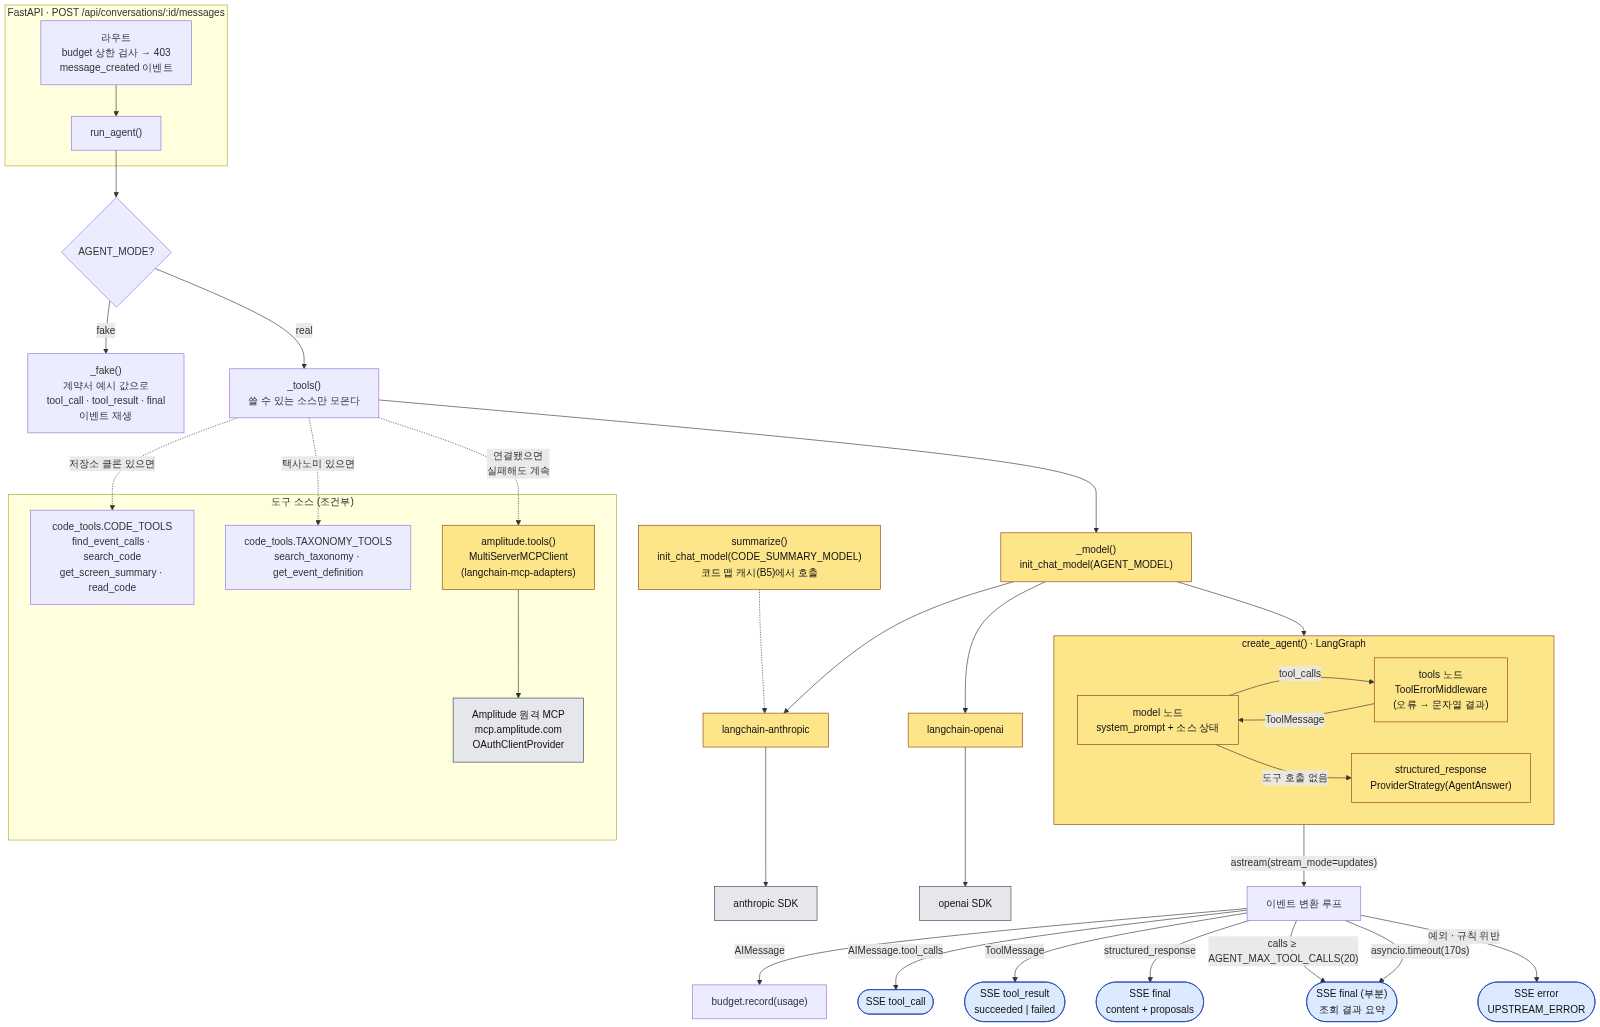
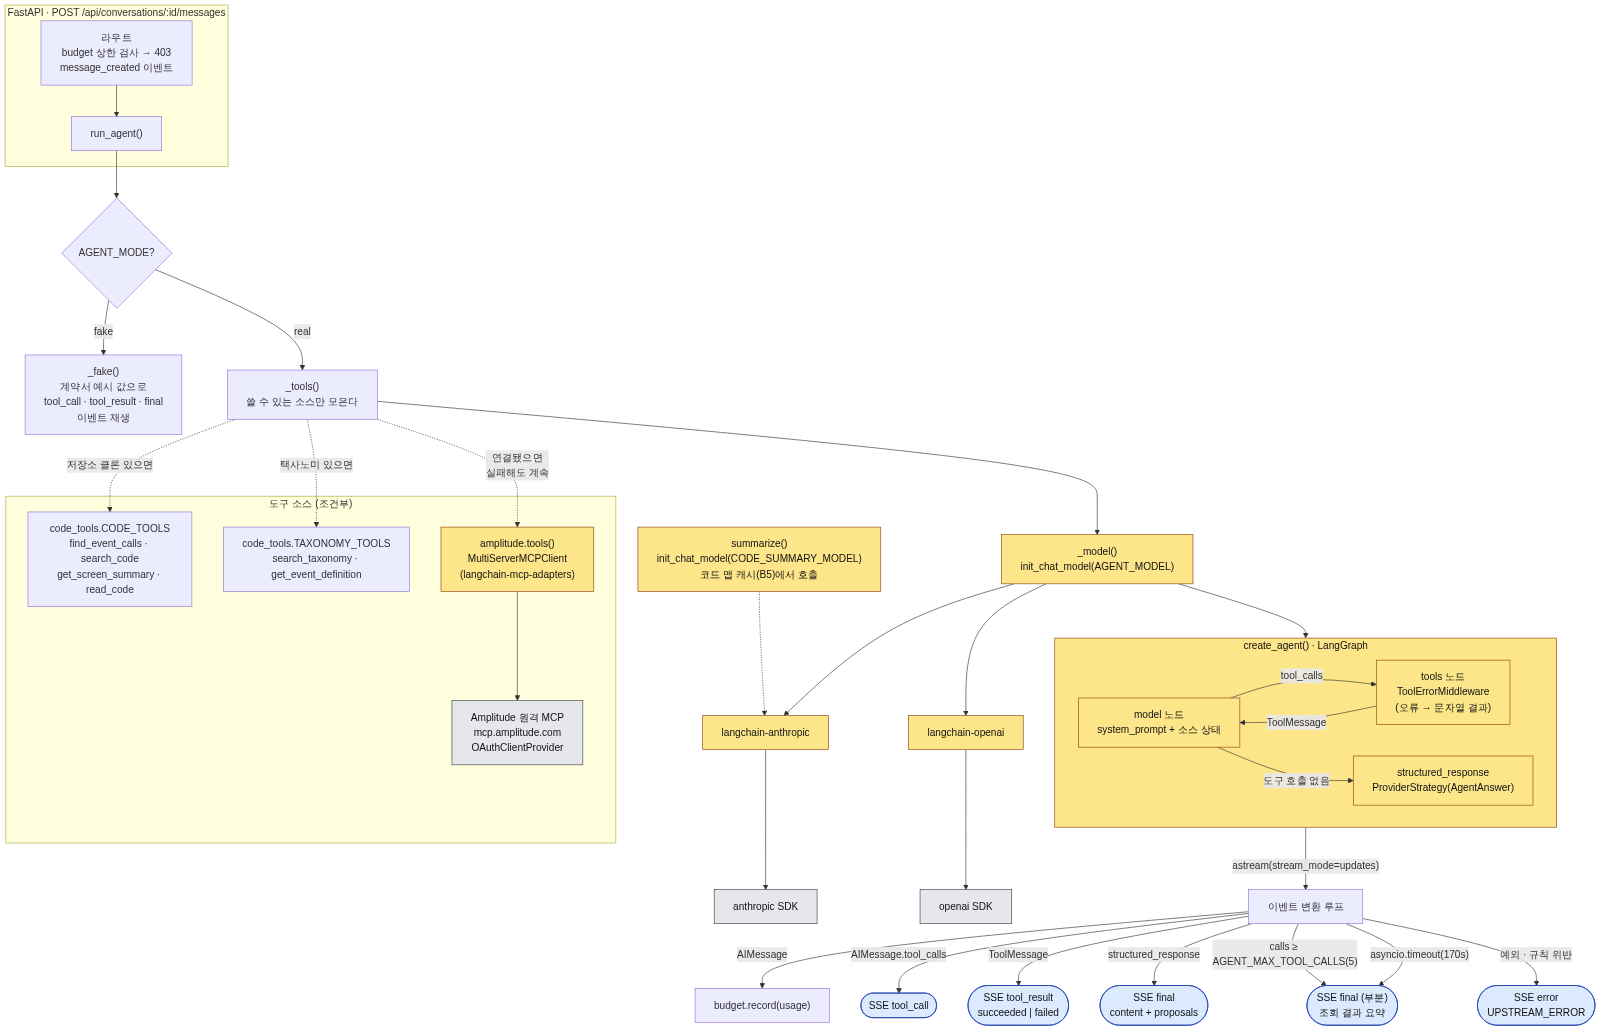
feat(backend): lower default tool-call cap from 20 to 5 per run
User decision. Applies to code defaults, env examples, the deploy
workflow, the contract note (original and split kept identical), ADR-2,
plan, tasks and the architecture diagram.

diff --git a/backend/app/agent_anthropic.py b/backend/app/agent_anthropic.py
@@ -53,7 +53,7 @@ async def run(model: str, system: str, history: list[dict], tools: list, emit, u
         runner = _client().beta.messages.tool_runner(
             model=model, max_tokens=16000, system=f"{system}, Amplitude {amp}", messages=history, tools=btools,
             output_format=AgentAnswer, thinking={"type": "adaptive"}, cache_control={"type": "ephemeral"},
-            betas=BETAS, fallbacks="default", max_iterations=int(num("AGENT_MAX_TOOL_CALLS", 20)) + 2)
+            betas=BETAS, fallbacks="default", max_iterations=int(num("AGENT_MAX_TOOL_CALLS", 5)) + 2)
         last = None
         async for message in runner:  # tool_choice는 넘기지 않는다(auto). 현행 모델은 any/tool 강제를 400으로 거부
             usage(*_usage(message.usage))

diff --git a/backend/app/agent_openai.py b/backend/app/agent_openai.py
@@ -59,7 +59,7 @@ async def run(model: str, system: str, history: list[dict], tools: list, emit, u
     try:
         agent = Agent(name="kbap-pm-agent", instructions=f"{system}, Amplitude {amp}", model=_model(model),
                       tools=ftools, mcp_servers=servers, output_type=AgentAnswer)
-        result = Runner.run_streamed(agent, input=history, max_turns=int(num("AGENT_MAX_TOOL_CALLS", 20)) + 2)
+        result = Runner.run_streamed(agent, input=history, max_turns=int(num("AGENT_MAX_TOOL_CALLS", 5)) + 2)
         mcp_calls: set[str] = set()
         try:
             async for ev in result.stream_events():

diff --git a/backend/app/agent.py b/backend/app/agent.py
@@ -174,7 +174,7 @@ async def _real(message_id: int, conversation_id: int) -> AsyncIterator[dict]:
 
     from app.schemas import AgentAnswer
 
-    max_calls, timeout = int(num("AGENT_MAX_TOOL_CALLS", 20)), num("AGENT_TIMEOUT_SECONDS", 170)
+    max_calls, timeout = int(num("AGENT_MAX_TOOL_CALLS", 5)), num("AGENT_TIMEOUT_SECONDS", 170)
     try:
         mod, model = runtime(agent_model())
     except ValueError as e:

diff --git a/_workspace/01_cto_tech-decisions.md b/_workspace/01_cto_tech-decisions.md
@@ -33,7 +33,7 @@
 - 이유: PRD가 요구하는 것은 "도구 여러 번 호출 + 중간 결과 보고 다음 조회 결정"이고, 기본 ReAct 루프가 정확히 그것이다. 제안 4필드를 본문 문자열이 아닌 구조로 받는 것도 `response_format` 한 줄로 끝난다.
 - 버린 대안: kbap-amplitude식 9노드 StateGraph. 품질 튜닝 단계에서는 유효하나 v1에서 "채택할 만한가"를 검증하기 전에 짓기엔 과하다. 필요해지면 같은 LangGraph 위에서 노드를 추가한다.
 - 바꾸면 영향: `backend/app/agent/` 내부만. SSE 이벤트 형식은 계약이므로 유지.
-- 가드: 질문당 도구 호출 상한 `AGENT_MAX_TOOL_CALLS`(기본 20). 초과 시 그때까지의 결과로 최종 응답을 강제한다.
+- 가드: 질문당 도구 호출 상한 `AGENT_MAX_TOOL_CALLS`(기본 5). 초과 시 그때까지의 결과로 최종 응답을 강제한다.
 - 상태: 대체됨(→ADR-20) — LangChain `create_agent` 대신 공급자별 공식 SDK 런타임
 
 ### ADR-3: Amplitude는 `langchain-mcp-adapters` + MCP Python SDK OAuth, 서버가 토큰 보관
@@ -226,7 +226,7 @@
 | `AGENT_MODE` | `real` / `fake` | ADR-15 |
 | `AGENT_MODEL`, `CODE_SUMMARY_MODEL` | `anthropic:claude-sonnet-5-5`, `anthropic:claude-haiku-5-5` (OpenAI로 바꾸면 `openai:gpt-6-luna`) | ADR-20 |
 | `ANTHROPIC_API_KEY`, `OPENAI_API_KEY` | | 쓰는 쪽만 |
-| `AGENT_MAX_TOOL_CALLS` | `20` | ADR-2 |
+| `AGENT_MAX_TOOL_CALLS` | `5` | ADR-2 (2026-10-15 사용자 결정: 20→5) |
 | `AGENT_TIMEOUT_SECONDS` | `170` | ADR-16 |
 | `LLM_BUDGET_USD` | `200` | ADR-9 |
 | `AMPLITUDE_MCP_URL` | `https://mcp.amplitude.com/mcp` | EU면 `https://mcp.eu.amplitude.com/mcp` |

diff --git a/specs/001-pm-agent-prototype/tasks.md b/specs/001-pm-agent-prototype/tasks.md
@@ -161,7 +161,7 @@ description: "PM Agent 프로토타입 구현 태스크"
 - [x] T039 [US2] [BE] `backend/app/agent.py` real 분기. (B6)
   - 구성: `init_chat_model(AGENT_MODEL)`과 `create_agent(model, tools=code_tools+taxonomy_tools, system_prompt, response_format=AgentAnswer)`를 쓴다.
   - 스트리밍: `astream(stream_mode="updates")`를 `tool_call`/`tool_result`/`final`로 변환한다.
-  - 상한: `AGENT_MAX_TOOL_CALLS`(20) 또는 `AGENT_TIMEOUT_SECONDS`(170)에 닿으면 그때까지의 결과로 `final`을 보낸다. `status: "completed"`이고 `content` 첫 문장에 중단 사유를 적는다(ADR-16).
+  - 상한: `AGENT_MAX_TOOL_CALLS`(5) 또는 `AGENT_TIMEOUT_SECONDS`(170)에 닿으면 그때까지의 결과로 `final`을 보낸다. `status: "completed"`이고 `content` 첫 문장에 중단 사유를 적는다(ADR-16).
   - 실패 처리: 도구가 실패하면 `tool_result` `failed`로 보내고 실행은 계속한다. 모델 호출 자체가 실패하면 `error` `UPSTREAM_ERROR`다.
   - 사용량: 매 호출을 `budget.record`로 기록한다.
 - [x] T040 [US2] [BE] `backend/app/agent.py` 시스템 프롬프트(코드에 모델명 금지). 담을 지시는 다음과 같다. (B6)

diff --git a/specs/001-pm-agent-prototype/plan.md b/specs/001-pm-agent-prototype/plan.md
@@ -35,7 +35,7 @@
 
 **Project Type**: 웹 애플리케이션(`frontend/` + `backend/`).
 
-**Performance Goals**: 첫 진행 표시(`tool_call` 이벤트)까지 5초 이내, 완성 제안까지 3분 이내(SC-004). 실행 상한은 `AGENT_TIMEOUT_SECONDS=170`, 도구 호출 상한은 `AGENT_MAX_TOOL_CALLS=20`(ADR-2, ADR-16).
+**Performance Goals**: 첫 진행 표시(`tool_call` 이벤트)까지 5초 이내, 완성 제안까지 3분 이내(SC-004). 실행 상한은 `AGENT_TIMEOUT_SECONDS=170`, 도구 호출 상한은 `AGENT_MAX_TOOL_CALLS=5`(ADR-2, ADR-16).
 
 **Constraints**:
 - LLM 누적 비용 200달러 상한(`LLM_BUDGET_USD`, SC-006).

diff --git a/docs/architecture/agent-loop-langchain.md b/docs/architecture/agent-loop-langchain.md
@@ -49,7 +49,7 @@ flowchart TD
     LOOP -- "ToolMessage" --> TR(["SSE tool_result<br/>succeeded | failed"])
     LOOP -- "structured_response" --> FIN(["SSE final<br/>content + proposals"])
 
-    LOOP -- "calls ≥ AGENT_MAX_TOOL_CALLS(20)" --> PART(["SSE final (부분)<br/>조회 결과 요약"])
+    LOOP -- "calls ≥ AGENT_MAX_TOOL_CALLS(5)" --> PART(["SSE final (부분)<br/>조회 결과 요약"])
     LOOP -- "asyncio.timeout(170s)" --> PART
     LOOP -- "예외 · 규칙 위반" --> ERR(["SSE error<br/>UPSTREAM_ERROR"])
 
